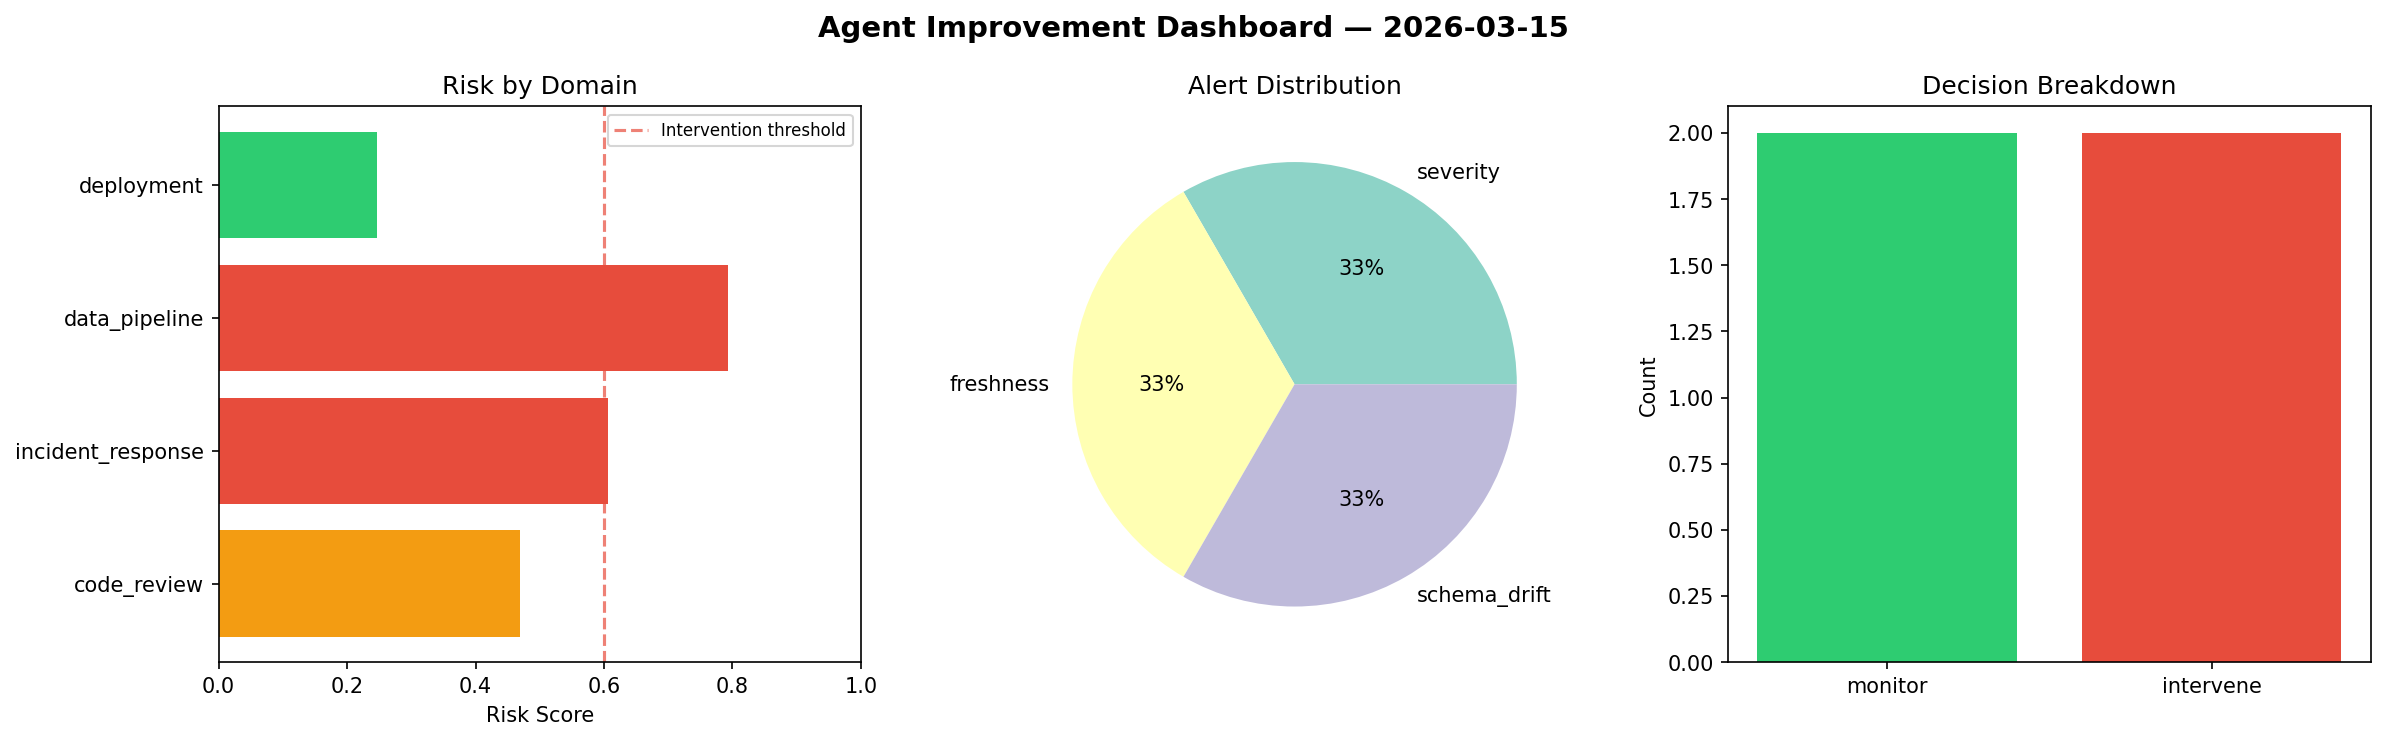
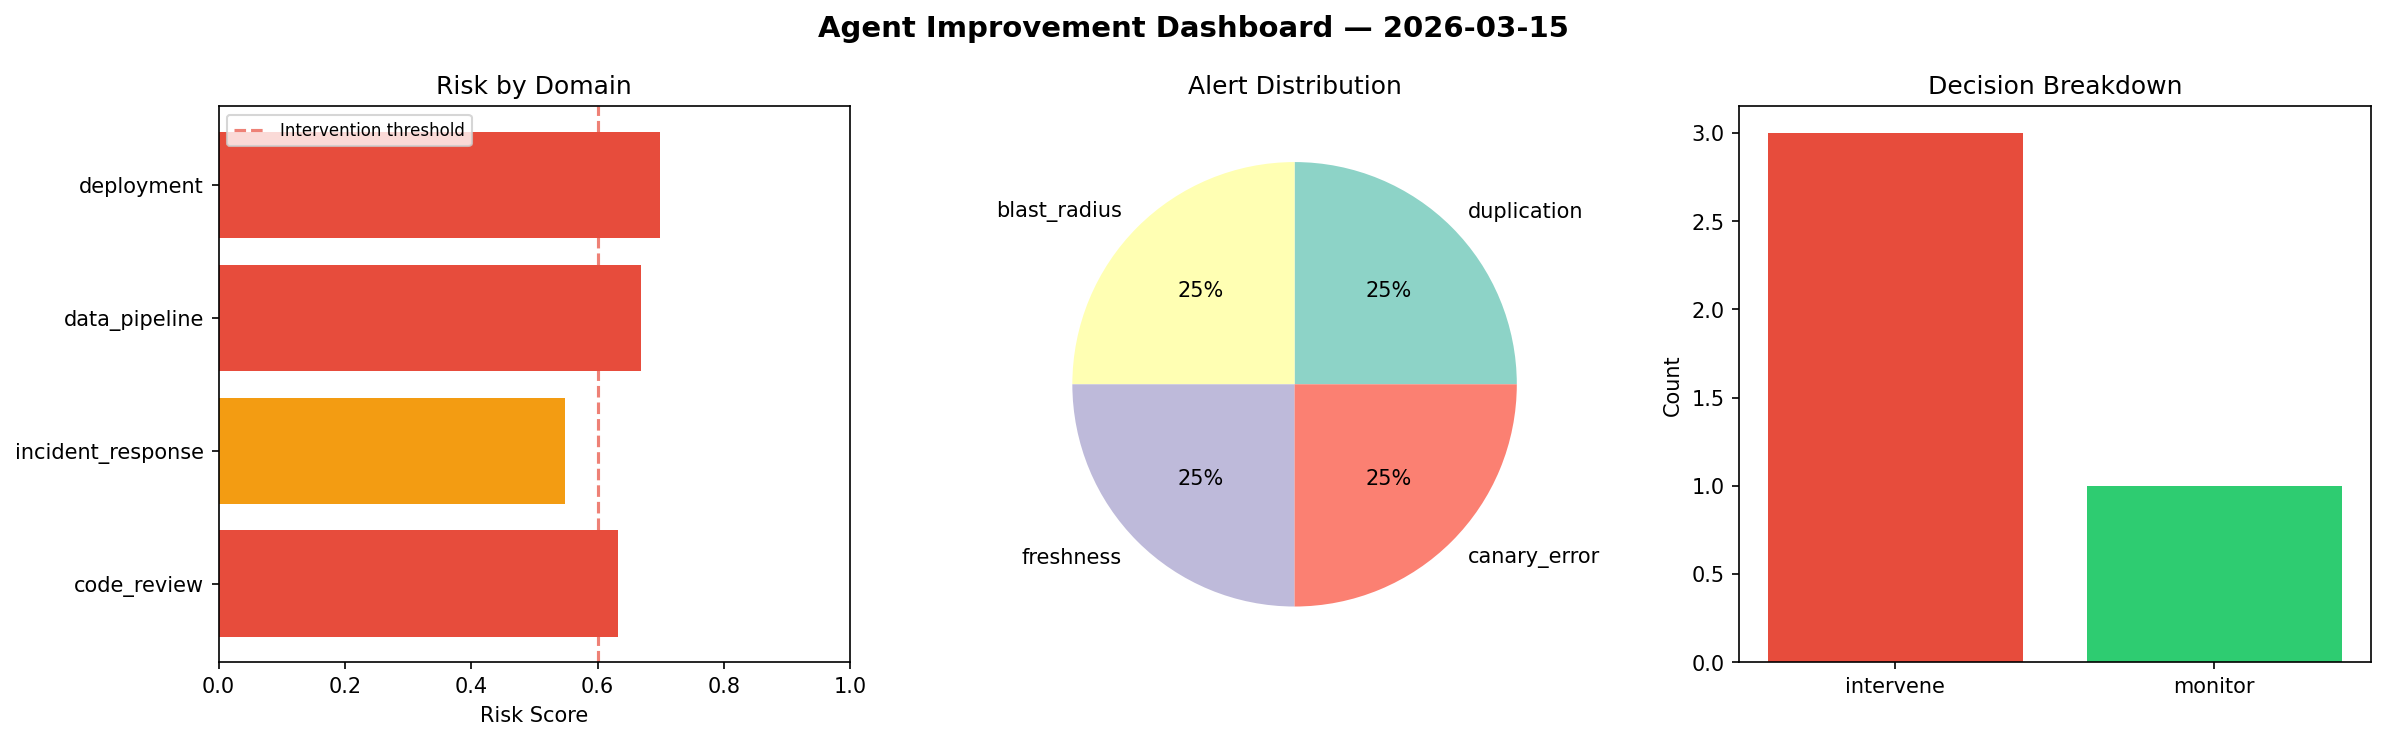
agent-improvement: daily cycle 2026-03-15T14:50

diff --git a/logs/2026-03-15.md b/logs/2026-03-15.md
@@ -1,6 +1,6 @@
 # Agent Improvement Report — 2026-03-15
 
-**Cycle ID:** `1a38dca3` | **Avg Risk:** 0.5286 | **Interventions:** 2/4
+**Cycle ID:** `8aff3273` | **Avg Risk:** 0.6374 | **Interventions:** 3/4
 
 ![Dashboard](2026-03-15_dashboard.png)
 
@@ -10,18 +10,18 @@
 
 | Domain | Risk Score | Decision | Alerts |
 |--------|-----------|----------|--------|
-| code_review | 0.4688 | monitor | none |
-| incident_response | 0.6058 | intervene | severity |
-| data_pipeline | 0.7933 | intervene | freshness, schema_drift |
-| deployment | 0.2466 | monitor | none |
+| code_review | 0.6327 | intervene | duplication |
+| incident_response | 0.5491 | monitor | blast_radius |
+| data_pipeline | 0.669 | intervene | freshness |
+| deployment | 0.6988 | intervene | canary_error |
 
 ## Delta vs Yesterday
 
 | Domain | Today | Yesterday | Change |
 |--------|-------|-----------|--------|
-| code_review | 0.4688 | 0.5117 | 📉 -8.4% |
-| incident_response | 0.6058 | 0.2326 | 📈 160.4% |
-| data_pipeline | 0.7933 | 0.6033 | 📈 31.5% |
-| deployment | 0.2466 | 0.4519 | 📉 -45.4% |
+| code_review | 0.6327 | 0.5117 | 📈 23.6% |
+| incident_response | 0.5491 | 0.2326 | 📈 136.1% |
+| data_pipeline | 0.669 | 0.6033 | 📈 10.9% |
+| deployment | 0.6988 | 0.4519 | 📈 54.6% |
 
-**Refinement:** `{'adjustment': 'maintain', 'trend': 'improving', 'window': 4}`
+**Refinement:** `{'adjustment': 'tighten_thresholds', 'trend': 'degrading', 'window': 4}`
